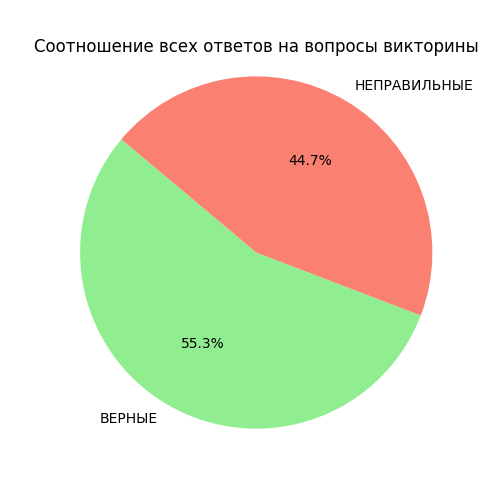
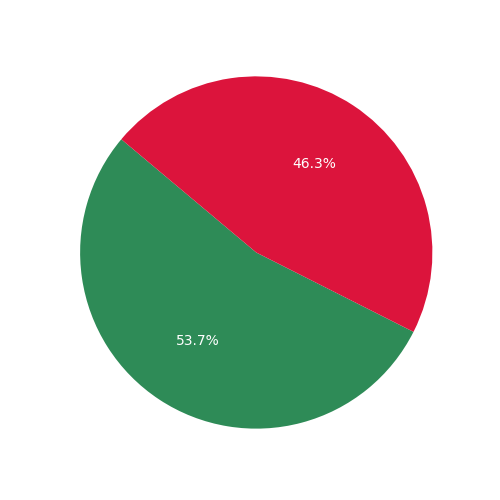
statistic reload every time than views touch it

diff --git a/magicflot/templates/magicflot/stat.html b/magicflot/templates/magicflot/stat.html
@@ -3,9 +3,6 @@
 
 {% block content %}
 <style type="text/css">
-	body{
-		background: rgb(48, 147, 128);
-	}
 	.all_bars_container{
 		display: grid;
 		grid-gap: 10px;
@@ -15,24 +12,24 @@
 		margin-right: auto;
 	}
 
-@media (min-width: 1025px){
-	.h22em { max-height: 32em; }
-}
-@media (min-width: 811px) and (max-width: 1024px){
-	.h22em { max-height: 22em; }
-}
+	@media (min-width: 1025px){
+		.h22em { max-height: 32em; }
+	}
+	@media (min-width: 811px) and (max-width: 1024px){
+		.h22em { max-height: 22em; }
+	}
 
-@media (max-width: 810px){
-	.h22em { max-height: 18em; }
-}
+	@media (max-width: 810px){
+		.h22em { max-height: 18em; }
+	}
 </style>
 <section id='stars'>
-	<div class='container'>
+	<div class='container white_milk'>
 		<h1 class='my-5'>Статистика</h1>
 
 		<div class='row'>
 			<div class='col-md-6'>
-				<h2>В викторине участвовали {{ game_sessions_count }} раз</h2>
+				<h2>С момента запуска на воду в викторине участвовали {{ game_sessions_count }} раз(а)</h2>
 				<center><img class='h22em' src='{% static "pies/true_false_pie_chart.png" %}' alt="Pie Chart"></center>
 			</div>
 			<div class='col-md-6'>
@@ -41,6 +38,13 @@
 			</div>
 		</div>
 
+		
+		<h2 class='pt-5'>7 самых простых вопросов</h2>
+		<center><img class='img-fluid' src='{% static "pies/most_easy_chart.png" %}' alt="Pie Chart"></center>
+	
+		<h2>7 самых сложных вопросов</h2>
+		<center><img class='img-fluid' src='{% static "pies/most_hard_chart.png" %}' alt="Pie Chart"></center>
+		
 
 		<div class='all_bars_container'>
 			{% for bar in bars %}

diff --git a/magicflot/stat.py b/magicflot/stat.py
@@ -3,6 +3,7 @@ import json
 import matplotlib.pyplot as plt
 import matplotlib.colors as mcolors
 import textwrap
+import numpy as np
 from collections import defaultdict
 from django.conf import settings
 
@@ -10,13 +11,15 @@ from django.conf import settings
 def load_game_sessions():
     data = 'static/json/game_sessions.json'
     game_sessions = []
-
     with open(data, 'r') as file:
         for line in file:
-            game_session_data = json.loads(line)
-            game_sessions.append(game_session_data)
-
+            try:
+                game_session_data = json.loads(line)
+                game_sessions.append(game_session_data)
+            except json.JSONDecodeError as e:
+                print(f"Failed to load JSON data: {e}")
     return game_sessions
+
 
 
 def generate_pie_chart(game_sessions):
@@ -40,12 +43,12 @@ def generate_pie_chart(game_sessions):
             else:
                 question_false_count += 1
 
+    plt.rcParams['text.color'] = '#fff'
     labels = ['ОБЩИЕ', 'ТЕХНИЧЕСКИЕ']
     sizes = [g_true_count, t_true_count]
-    colors=['aliceblue', 'skyblue']
-    #colors=['chocolate', 'darkorange']
+    colors=['navy', 'purple']
     plt.figure(figsize=(6, 5))
-    plt.pie(sizes, labels=labels, colors=colors, autopct='%1.1f%%', startangle=140)
+    plt.pie(sizes, labels=labels, colors=colors, autopct='%1.1f%%', startangle=140, textprops={'color': '#fff'})
     plt.axis('equal')
     plt.title('Распределение верных ответов по категориям')
     plt.savefig(os.path.join(pie_chart_dir, 'g_t_pie_chart.png'), transparent=True)
@@ -53,12 +56,106 @@ def generate_pie_chart(game_sessions):
 
     labels = ['ВЕРНЫЕ', 'НЕПРАВИЛЬНЫЕ']
     sizes = [question_true_count, question_false_count]
-    colors=['lightgreen', 'salmon']
+    colors=['seagreen', 'crimson']
     plt.figure(figsize=(5, 5))
-    plt.pie(sizes, labels=labels, colors=colors, autopct='%1.1f%%', startangle=140)
+    plt.pie(sizes, labels=labels, colors=colors, autopct='%1.1f%%', startangle=140, textprops={'color': '#fff'})
     plt.axis('equal')
     plt.title('Соотношение всех ответов на вопросы викторины')
     plt.savefig(os.path.join(pie_chart_dir, 'true_false_pie_chart.png'), transparent=True)
+
+
+
+def generate_easy(game_sessions):
+    question_stats = defaultdict(lambda: {'True': 0, 'False': 0})
+    pie_chart_dir = os.path.join(settings.BASE_DIR, 'static/pies')
+
+    for session in game_sessions:
+        for question_data in session['how_it_was']['answered_questions']:
+            question = question_data['question']
+            value = question_data['value']
+
+            question_key = str(question)
+
+            if value == 'True':
+                question_stats[question_key]['True'] += 1
+            elif value == 'False':
+                question_stats[question_key]['False'] += 1
+
+    unique_questions = set([question_data['question'] for session in game_sessions for question_data in session['how_it_was']['answered_questions']])
+
+    filtered_questions = [q for q in unique_questions if str(q) in question_stats and not np.isnan(question_stats[str(q)]['True'])]
+
+    # Sort filtered questions based on the number of True answers
+    sorted_questions = sorted(filtered_questions, key=lambda q: question_stats[str(q)]['True'], reverse=True)
+
+    # Create most_easy_chart.png
+    most_easy_questions = sorted_questions[:7]
+    most_easy_values = [question_stats[str(q)]['True'] if not np.isnan(question_stats[str(q)]['True']) else 0 for q in most_easy_questions]
+
+    fig, ax = plt.subplots(figsize=(10, 6))
+    
+    y_pos = np.arange(len(most_easy_questions))
+    
+    bars = ax.barh(y_pos, most_easy_values, color=['darkgreen','green','seagreen', 'teal', 'royalblue', 'mediumblue',  'navy'])
+    
+    for i, bar in enumerate(bars):
+        ax.text(bar.get_width() - 0.2, bar.get_y() + bar.get_height()/2, most_easy_values[i], ha='center', va='center', color='white', fontsize=14)
+    
+    ax.set_yticks(y_pos)
+    ax.set_yticklabels(['\n'.join(textwrap.wrap(str(q), width=45)) for q in most_easy_questions], color='#fff')
+    ax.invert_yaxis()
+    plt.subplots_adjust(left=0.4, right=0.9)
+
+    plt.savefig(os.path.join(pie_chart_dir, 'most_easy_chart.png'), transparent=True)
+
+    
+def generate_hard(game_sessions):
+    question_stats = defaultdict(lambda: {'True': 0, 'False': 0})
+    pie_chart_dir = os.path.join(settings.BASE_DIR, 'static/pies')
+
+    for session in game_sessions:
+        for question_data in session['how_it_was']['answered_questions']:
+            question = question_data['question']
+            value = question_data['value']
+
+            # Ensure the question string is properly formatted before using it as a key
+            question_key = str(question)
+
+            if value == 'True':
+                question_stats[question_key]['True'] += 1
+            elif value == 'False':
+                question_stats[question_key]['False'] += 1
+
+
+    unique_questions = set([question_data['question'] for session in game_sessions for question_data in session['how_it_was']['answered_questions']])
+
+    # Filter out questions with missing or invalid data
+    filtered_questions = [q for q in unique_questions if str(q) in question_stats and not np.isnan(question_stats[str(q)]['True'])]
+
+    # Sort filtered questions based on the number of True answers
+    sorted_questions = sorted(filtered_questions, key=lambda q: question_stats[str(q)]['False'], reverse=True)
+
+
+    plt.rcParams['text.color'] = '#fff'
+    # Create most_easy_chart.png
+    most_easy_questions = sorted_questions[:7]
+    most_easy_values = [question_stats[str(q)]['True'] if not np.isnan(question_stats[str(q)]['True']) else 0 for q in most_easy_questions]
+
+    fig, ax = plt.subplots(figsize=(10, 6))
+    
+    y_pos = np.arange(len(most_easy_questions))
+    
+    bars = ax.barh(y_pos, most_easy_values, color=['maroon', 'firebrick',  'crimson', 'mediumvioletred','purple', 'darkviolet'])
+    
+    for i, bar in enumerate(bars):
+        ax.text(bar.get_width() - 0.2, bar.get_y() + bar.get_height()/2, most_easy_values[i], ha='center', va='center', color='white', fontsize=14)
+    
+    ax.set_yticks(y_pos)
+    ax.set_yticklabels(['\n'.join(textwrap.wrap(str(q), width=45)) for q in most_easy_questions], color='#fff')
+    ax.invert_yaxis()
+    plt.subplots_adjust(left=0.4, right=0.9)
+
+    plt.savefig(os.path.join(pie_chart_dir, 'most_hard_chart.png'), transparent=True)
 
 
 def generate_bar(game_sessions):
@@ -81,6 +178,8 @@ def generate_bar(game_sessions):
 
     unique_questions = set([question_data['question'] for session in game_sessions for question_data in session['how_it_was']['answered_questions']])
 
+    plt.rcParams['text.color'] = '#fff'
+
     for question in unique_questions:
         data = question_stats[str(question)]
         labels = ['ВЕРНЫЕ', 'НЕ ВЕРНЫЕ']
@@ -91,12 +190,13 @@ def generate_bar(game_sessions):
         wrapped_question = textwrap.fill(question, width=40)
 
         plt.figure()
-        plt.bar(x, [true_values, false_values], color=['lightgreen', 'salmon'])
-        plt.xticks(x, labels)
-        plt.xlabel('Ответы')
-        plt.ylabel('Количество')
-        plt.title(f'{wrapped_question}', y=0.4)
-        plt.savefig(os.path.join(bar_chart_dir, f'{question[:30]}.png'), transparent=True)
+        plt.bar(x, [true_values, false_values], color=['seagreen', 'crimson'])
+        plt.xticks(x, labels, color='#fff')
+        plt.xlabel('Ответы', color='#fff')
+        plt.ylabel('Количество', color='#fff')
+        plt.title(f'{wrapped_question}', y=0.4, color='#fff')
+
+        plt.savefig(os.path.join(bar_chart_dir, f'{question[:13]}.png'), transparent=True)
 
 
 
@@ -105,6 +205,10 @@ game_sessions = load_game_sessions()
 
 # Generate pie charts based on the game sessions data
 generate_pie_chart(game_sessions)
+
+#Generate most easy & most
+generate_easy(game_sessions)
+generate_hard(game_sessions)
 
 # Generate bar for each question
 generate_bar(game_sessions)

diff --git a/magicflot/views.py b/magicflot/views.py
@@ -16,7 +16,7 @@ from django.template.loader import get_template
 
 from .models import Category, Question, Statistic, Winner
 from .forms import WinnerForm
-from .stat import get_statistics, load_game_sessions
+from .stat import get_statistics, load_game_sessions, generate_pie_chart, generate_easy, generate_hard, generate_bar
 
 
 def error_404_view(request, exception):
@@ -115,7 +115,14 @@ def stat(request):
 	game_sessions = load_game_sessions()
 	game_sessions_count, all_questions = get_statistics(game_sessions)
 
+	generate_pie_chart_result = generate_pie_chart(game_sessions)
+	generate_easy_result = generate_easy(game_sessions)
+	generate_hard_result = generate_hard(game_sessions)
+
+
+	# Display bars about each question
 	bar_chart_dir = os.path.join(settings.BASE_DIR, 'static/bars')
 	bars = [f for f in os.listdir(bar_chart_dir) if f.endswith('.png')]
 	
-	return render(request, 'magicflot/stat.html', {'game_sessions_count': game_sessions_count, 'all_questions': all_questions, 'bars': bars})
+
+	return render(request, 'magicflot/stat.html', {'game_sessions_count': game_sessions_count, 'all_questions': all_questions, 'bars': bars, 'generate_pie_chart_result':generate_pie_chart,'generate_easy_result':generate_easy,'generate_hard_result':generate_hard})
